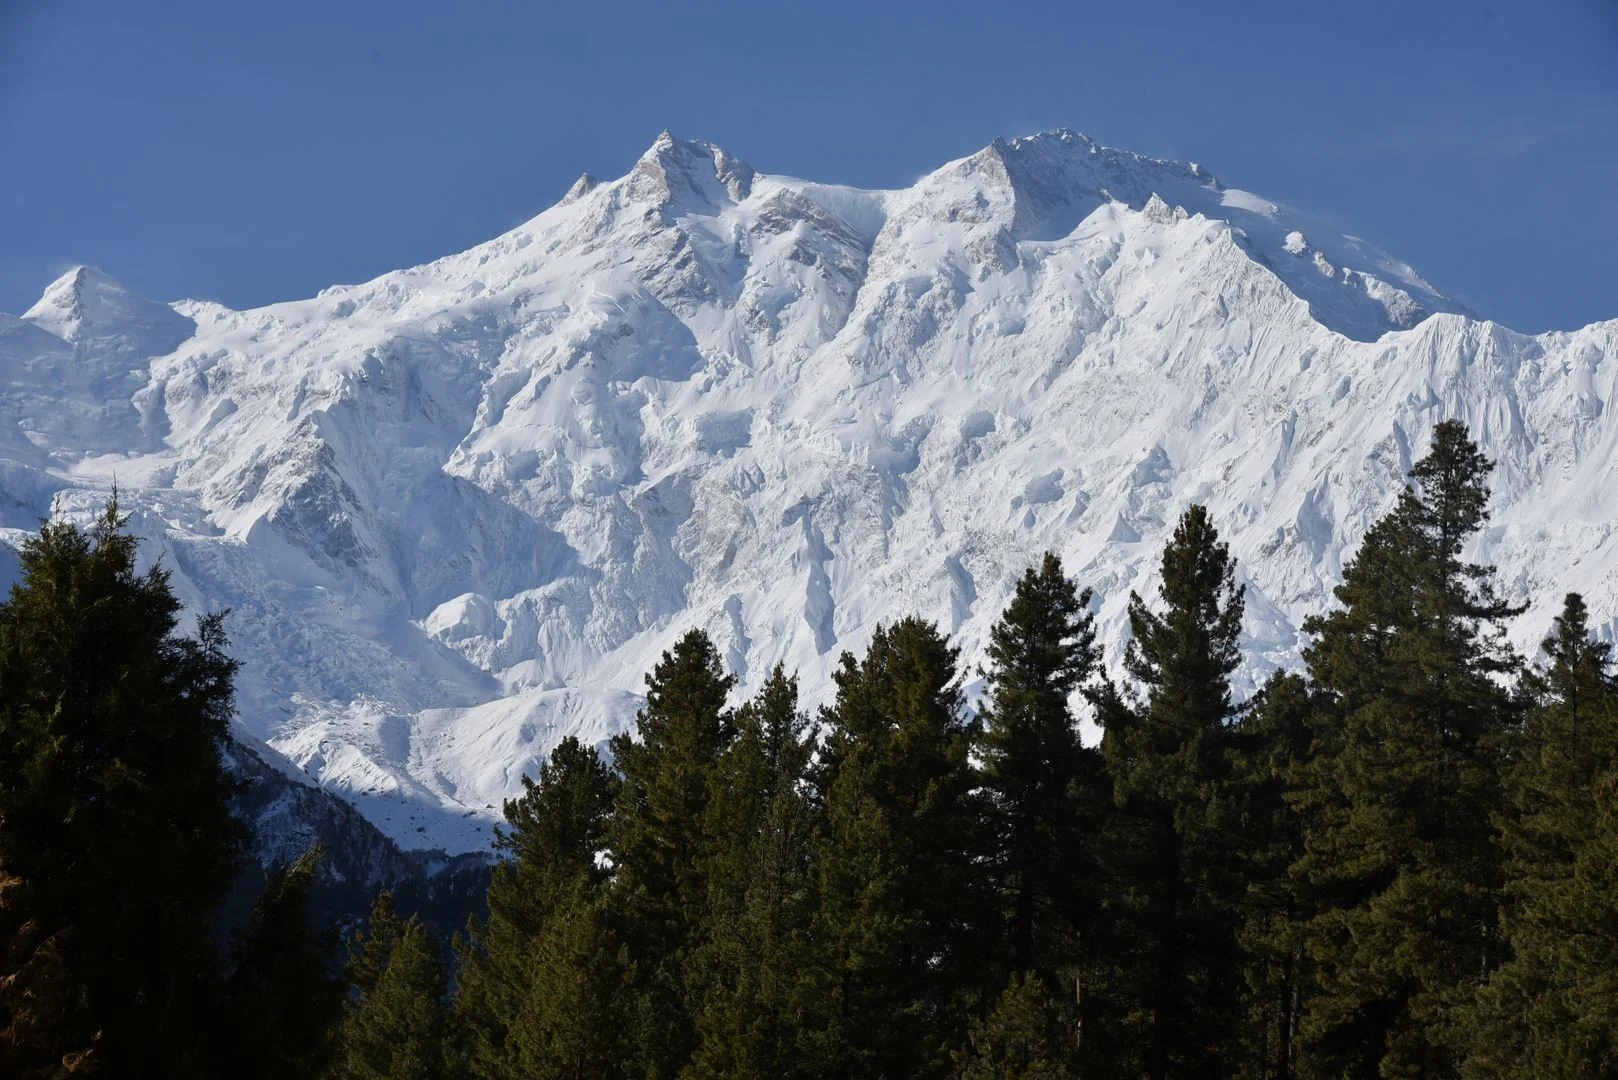
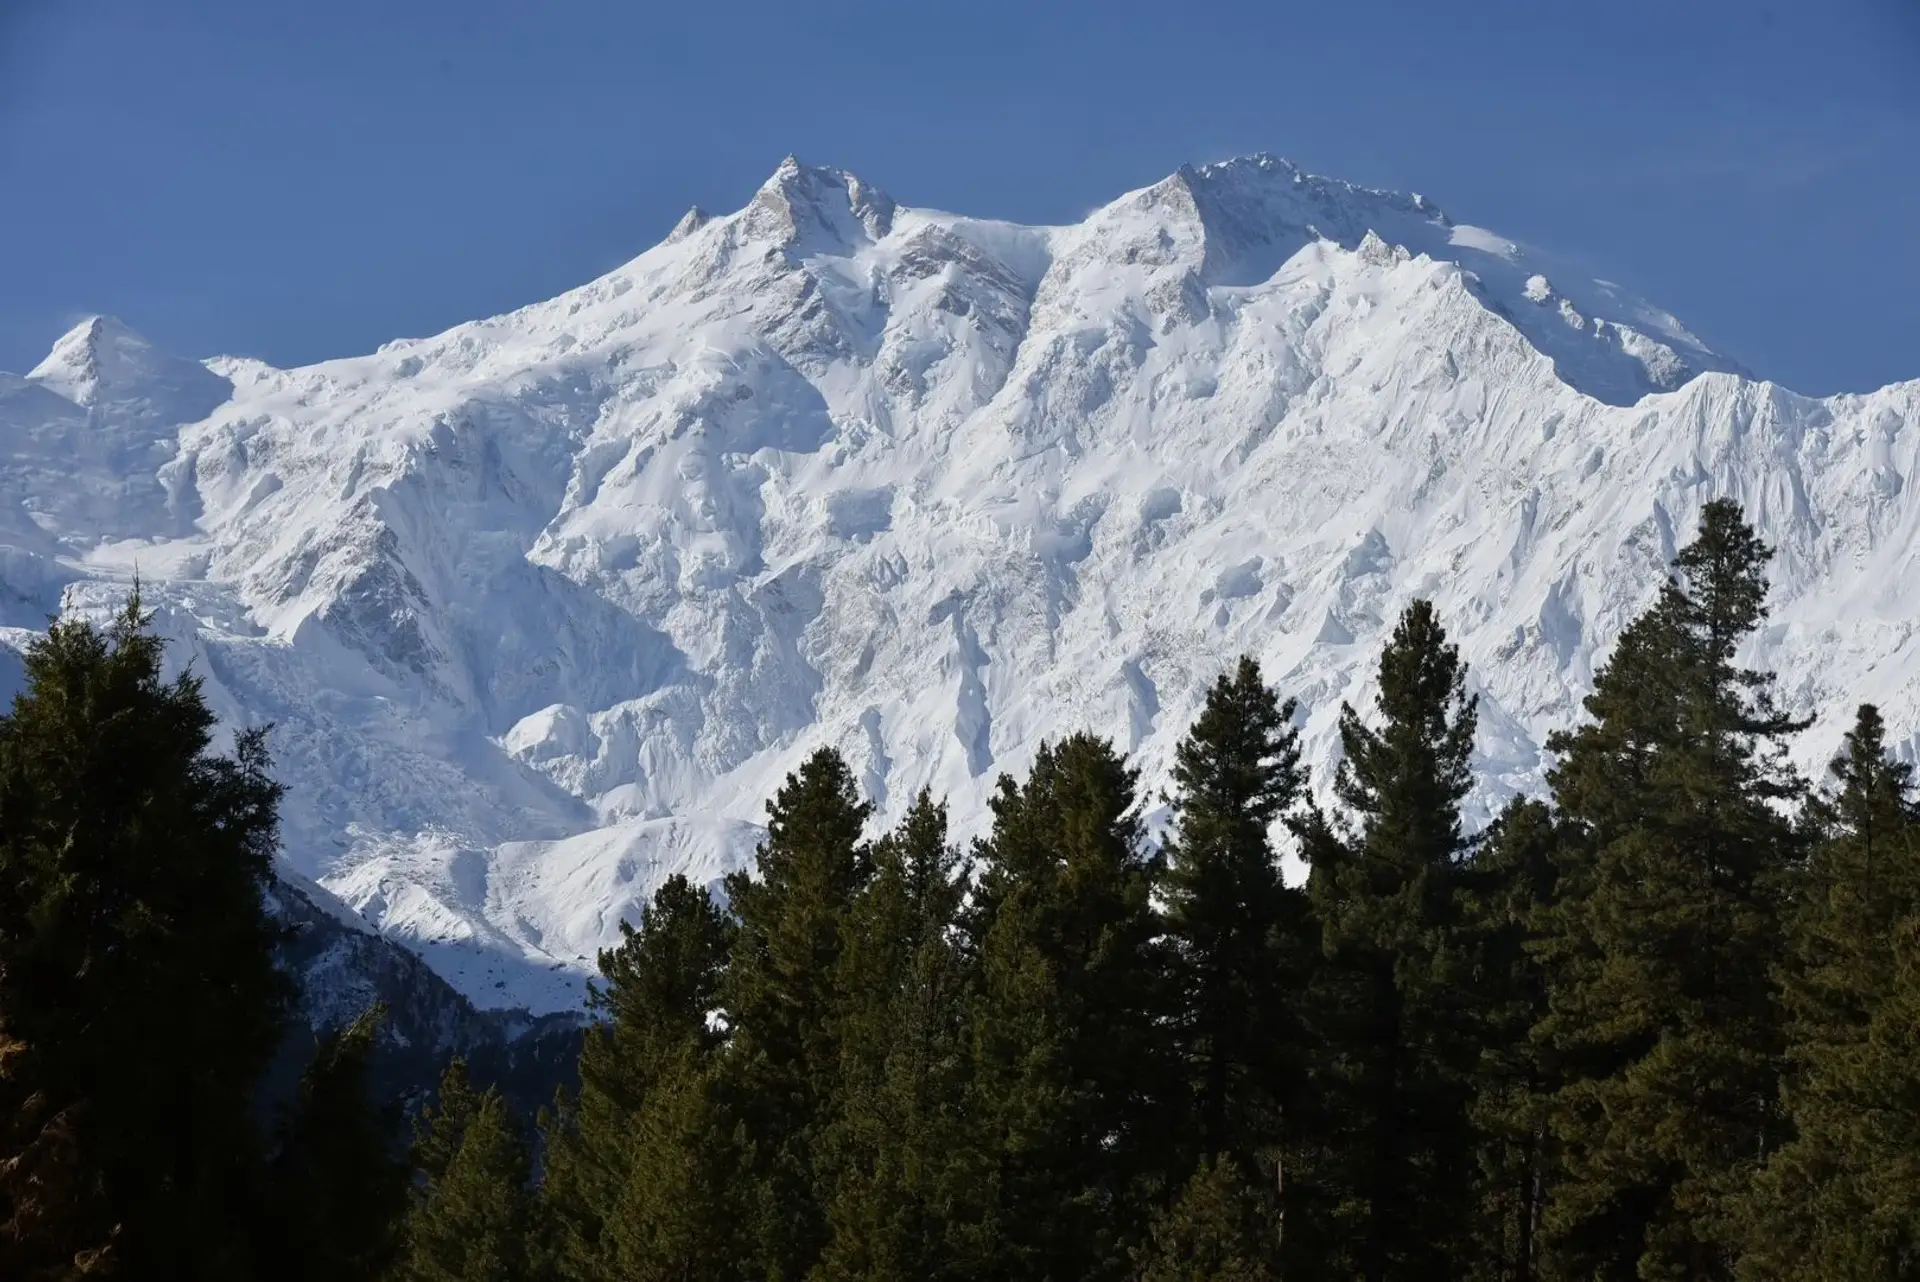
update project

diff --git a/index.html b/index.html
@@ -57,6 +57,8 @@
   <link rel="preconnect" href="https://www.google.com" crossorigin>
 
   <!-- Preload critical resources -->
+  <link rel="preload" href="images/hero-lake.webp" as="image">
+  <link rel="preload" href="images/hero-mountain.webp" as="image">
   <link rel="preload" href="css/styles.css" as="style">
   <link rel="preload" href="js/main.js?v=2" as="script">
 
